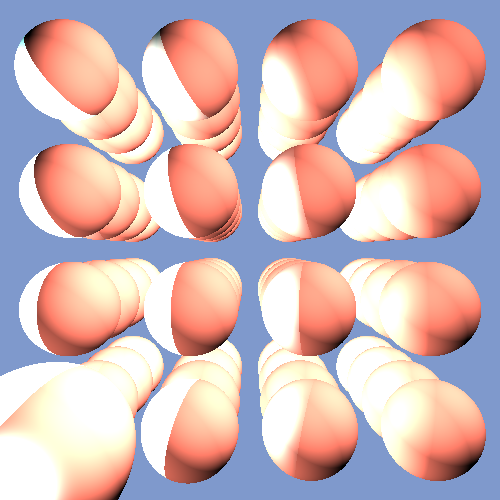
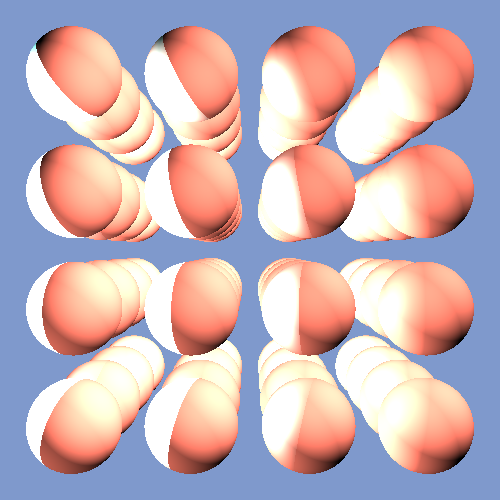
getColor working, need fixing

diff --git a/src/Vector.java b/src/Vector.java
@@ -110,8 +110,9 @@ public class Vector {
 	public void Normalize() {
 		if(GetMagnitude() == 0)
 			return;
-		this.setX(this.getX()*(1/GetMagnitude()));
-		this.setY(this.getY()*(1/GetMagnitude()));
-		this.setZ(this.getZ()*(1/GetMagnitude()));
+		Vector temp = this.multiplyByScalar(1 / GetMagnitude());
+		this.setX(temp.getX());
+		this.setY(temp.getY());
+		this.setZ(temp.getZ());
 	}
 }

diff --git a/src/RayTracer.java b/src/RayTracer.java
@@ -27,7 +27,7 @@ import javax.imageio.ImageIO;
  */
 
 public class RayTracer {
-	public static final boolean DEBUG=true;
+	public static final boolean DEBUG=false;
 	public static final Color BGCOLOR=new Color(0, 50, 21);
 	
 	
